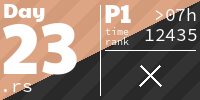
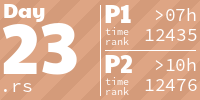
Tiles

diff --git a/README.md b/README.md
@@ -17,10 +17,10 @@
 ## Scores
 <!-- AOC TILES BEGIN -->
 <h1 align="center">
-  Advent of Code - 120/496 ⭐
+  Advent of Code - 121/496 ⭐
 </h1>
 <h1 align="center">
-  2024 - 45 ⭐ - Rust
+  2024 - 46 ⭐ - Rust
 </h1>
 <a href="aoc-2024/src/day01.rs">
   <img src=".aoc_tiles/tiles/2024/01.png" width="161px">
